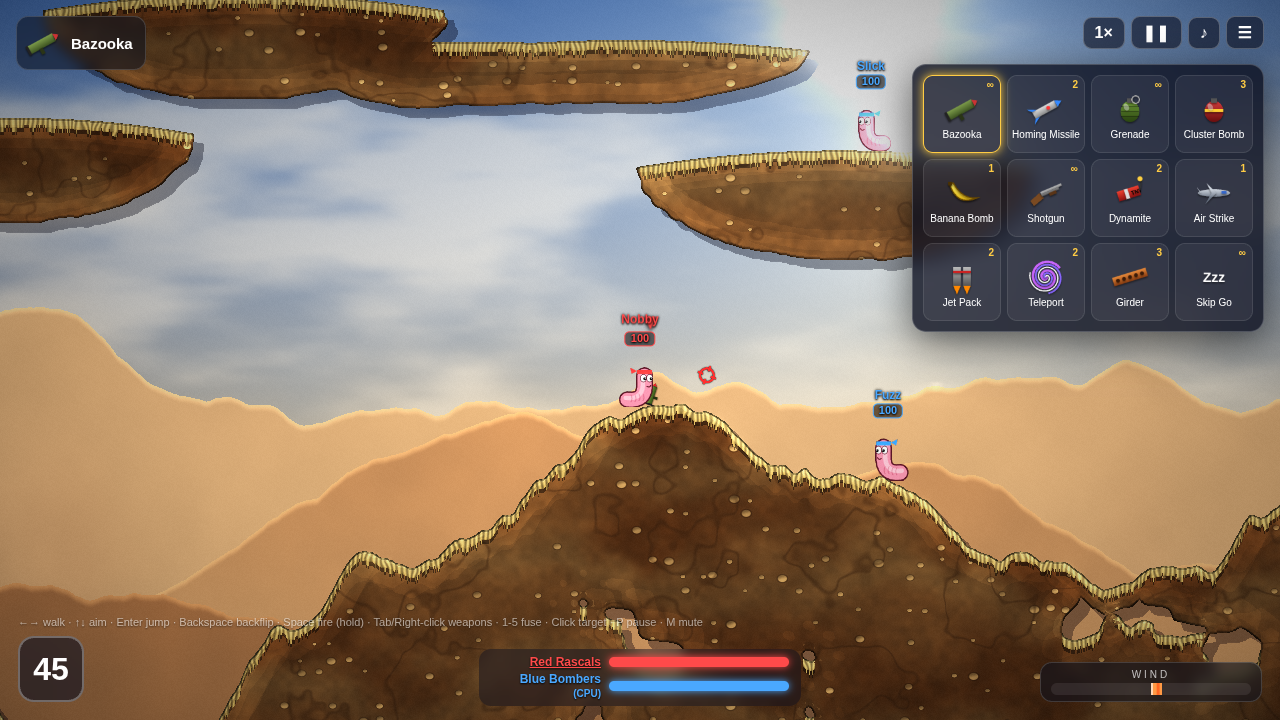
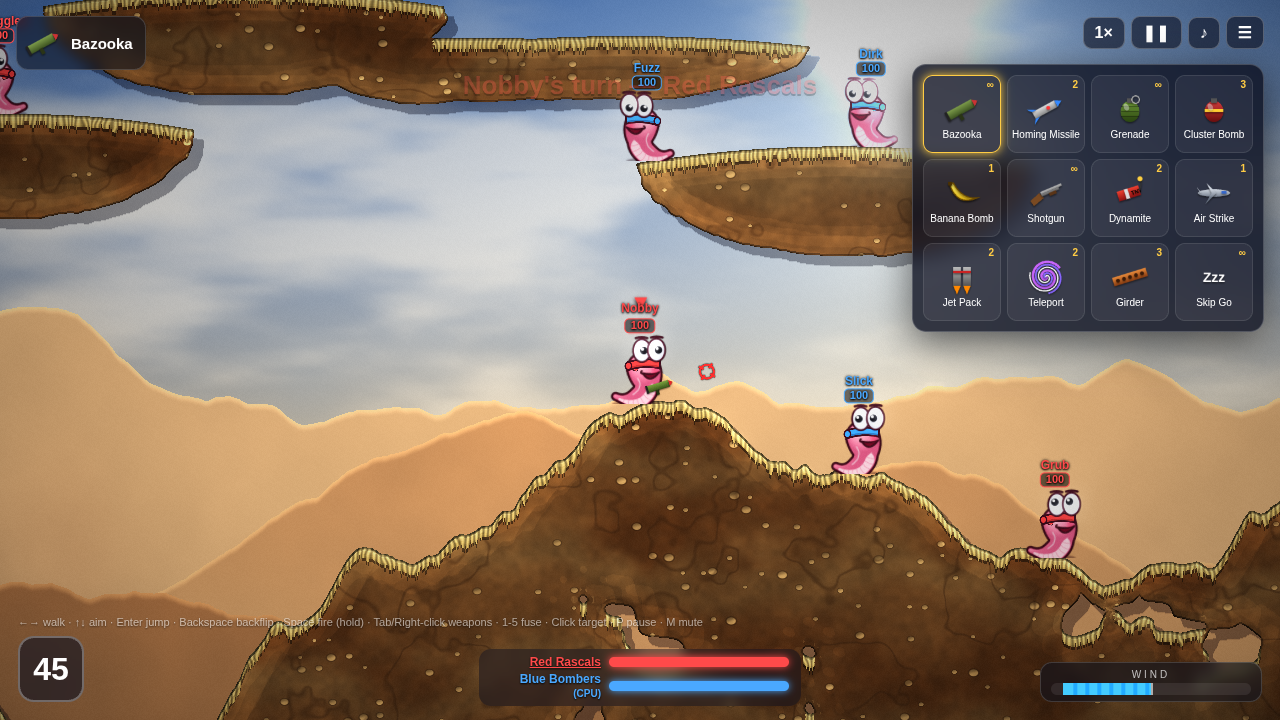
Worm art overhaul: smooth vector Worms 2-style worms (S-curve body, shading, belly, googly eyes, expressions, team bandana), fixed weapon hold angle

diff --git a/main.js b/main.js
@@ -315,97 +315,130 @@ try{const s=JSON.parse(localStorage.getItem('worms_cfg'));if(s&&s.teams)cfg={...
 
 const wormGeo=new THREE.PlaneGeometry(54,54),gunGeo=new THREE.PlaneGeometry(26,26);
 // ---------- cartoon worms (segmented body + dynamic face) ----------
-const SEGS=10;
-let _ballMat=null;
-function ballMat(head){const key=head?'h':'b';_ballMat=_ballMat||{};if(_ballMat[key])return _ballMat[key];const [c,x]=cv(64);
-  x.fillStyle=head?'#5a1730':'#9a3a58';x.beginPath();x.arc(32,32,31,0,7);x.fill();
-  const g=x.createRadialGradient(24,20,2,32,32,28);g.addColorStop(0,'#ffe0e7');g.addColorStop(.45,'#f79bb2');g.addColorStop(1,'#cf5a7c');
-  x.fillStyle=g;x.beginPath();x.arc(32,32,head?28:29.3,0,7);x.fill();
-  x.strokeStyle='rgba(150,40,75,.35)';x.lineWidth=2;x.beginPath();x.arc(32,32,21,Math.PI*.15,Math.PI*.85);x.stroke();
-  return _ballMat[key]=spriteMat(new THREE.CanvasTexture(c));}
+// ---------- cartoon worms: smooth vector body sprite + expressive face ----------
+const BS=4; // canvas px per world unit
+const INK='#3d0c1c';
+// body centreline (world units, feet origin, facing right). hx/hy: head offset, tq: tail sway
+function bodyCurve(hx,hy,tq){const P=[[-19+tq,6.5],[-2,-1.5],[11+hx*.4,9+hy*.3],[2+hx,29+hy]];
+  return u=>{const v=1-u;return [v*v*v*P[0][0]+3*v*v*u*P[1][0]+3*v*u*u*P[2][0]+u*u*u*P[3][0],v*v*v*P[0][1]+3*v*v*u*P[1][1]+3*v*u*u*P[2][1]+u*u*u*P[3][1]];};}
+const HEADR=12.5;
+const _sm=(a,b,u)=>{const t=clamp((u-a)/(b-a),0,1);return t*t*(3-2*t);};
+const bodyR=u=>1.9+6.4*_sm(0,.5,u)+.6*_sm(.5,.7,u)+3.6*_sm(.74,.97,u);
+const bodyCache={};
+function bodyTex(hx,hy,tq){const k=hx+'|'+hy+'|'+tq;if(bodyCache[k])return bodyCache[k];
+  const U=64,[c,x]=cv(U*BS);x.scale(BS,BS);x.translate(U/2,U);x.scale(1,-1); // world-ish coords, y up, feet at 0
+  const f=bodyCurve(hx,hy,tq),N=90,pts=[];
+  for(let i=0;i<=N;i++){const u=i/N,p=f(u),q=f(Math.min(1,u+.01)),o=f(Math.max(0,u-.01));let dx=q[0]-o[0],dy=q[1]-o[1];const l=Math.hypot(dx,dy)||1;pts.push({x:p[0],y:p[1],nx:dy/l,ny:-dx/l,r:bodyR(u),u});}
+  const shape=(grow,off=0,from=0,to=1)=>{x.beginPath();const S=pts.filter(p=>p.u>=from-1e-6&&p.u<=to+1e-6);
+    S.forEach((p,i)=>{const r=p.r+grow,cx=p.x+p.nx*off*p.r,cy=p.y+p.ny*off*p.r;i?x.lineTo(cx+p.nx*r,cy+p.ny*r):x.moveTo(cx+p.nx*r,cy+p.ny*r);});
+    for(let i=S.length-1;i>=0;i--){const p=S[i],r=p.r+grow,cx=p.x+p.nx*off*p.r,cy=p.y+p.ny*off*p.r;x.lineTo(cx-p.nx*r,cy-p.ny*r);}
+    x.closePath();for(const p of [S[S.length-1],S[0]]){const cx=p.x+p.nx*off*p.r,cy=p.y+p.ny*off*p.r,r=Math.max(.01,p.r+grow);x.moveTo(cx+r,cy);x.arc(cx,cy,r,0,7);}};
+  const H=pts[N];
+  // soft ground shadow
+  x.save();x.filter='blur(2px)';x.fillStyle='rgba(20,0,10,.35)';x.beginPath();x.ellipse(-3,.5,20,2.6,0,0,7);x.fill();x.restore();
+  // tube = union of overlapping discs (no self-intersection, no rings)
+  const disc=(p,r,ox,oy)=>{x.beginPath();x.arc(p.x+ox,p.y+oy,Math.max(.05,r),0,7);x.fill();};
+  x.fillStyle=INK;for(const p of pts)disc(p,p.r+1.8,0,0);
+  for(const p of pts){const g=x.createRadialGradient(p.x-p.r*.35,p.y+p.r*.4,p.r*.1,p.x,p.y,p.r*1.05);g.addColorStop(0,'#ffc6d5');g.addColorStop(.6,'#f48aa8');g.addColorStop(1,'#cf5c80');x.fillStyle=g;disc(p,p.r,0,0);}
+  // lighter belly band on the front/underside
+  for(const p of pts)if(p.u>.06&&p.u<.8){x.fillStyle='#ffd5df';disc(p,p.r*.42*(1-_sm(.65,.8,p.u)),p.nx*p.r*.5,p.ny*p.r*.5);}
+  // subtle belly creases
+  x.strokeStyle='rgba(205,95,128,.55)';x.lineWidth=.5;x.lineCap='round';
+  for(let u=.14;u<.86;u+=.08){const p=pts[Math.round(u*N)],r=p.r,bx=p.x+p.nx*r*.5,by=p.y+p.ny*r*.5,tx=-p.ny,ty=p.nx;
+    x.beginPath();x.moveTo(bx+p.nx*r*.38,by+p.ny*r*.38);x.quadraticCurveTo(bx-tx*1.1,by-ty*1.1,bx-p.nx*r*.38,by-p.ny*r*.38);x.stroke();}
+  // rim highlight along the back + head shine
+  x.strokeStyle='rgba(255,255,255,.5)';x.lineWidth=1.1;x.beginPath();pts.filter(p=>p.u>.3&&p.u<.9).forEach((p,i)=>{const px=p.x-p.nx*p.r*.62,py=p.y-p.ny*p.r*.62;i?x.lineTo(px,py):x.moveTo(px,py);});x.stroke();
+  const hg=x.createRadialGradient(H.x-4.5,H.y+5,0,H.x-4.5,H.y+5,6);hg.addColorStop(0,'rgba(255,255,255,.8)');hg.addColorStop(1,'rgba(255,255,255,0)');x.fillStyle=hg;x.beginPath();x.arc(H.x-4.5,H.y+5,6,0,7);x.fill();
+  const t=new THREE.CanvasTexture(c);t.minFilter=THREE.LinearMipmapLinearFilter;t.anisotropy=4;return bodyCache[k]=t;}
+// face: eyes on top of head, mouth on the front. 48x48 units, centre = head centre + (3,6)
+const FS=4,FU=56,FOX=3,FOY=9;
 const faceCache={};
 function faceTex(expr,blink,px,py){const k=expr+'|'+blink+'|'+px+'|'+py;if(faceCache[k])return faceCache[k];
-  const [c,x]=cv(96);x.lineCap='round';x.lineJoin='round';const ink='#4a1224';
-  const eyes=[[33,37],[63,37]],rx=13,ry=17;
+  const [c,x]=cv(FU*FS);x.scale(FS,FS);x.lineCap='round';x.lineJoin='round';
+  const hcx=FU/2-FOX,hcy=FU/2+FOY; // head centre in canvas units (y down)
+  const eyes=[[hcx-1.5,hcy-15],[hcx+10.5,hcy-15.5]],rx=6.4,ry=8.6;
   for(const [ex,ey] of eyes){
-    x.fillStyle='#fff';x.beginPath();x.ellipse(ex,ey,rx,ry,0,0,7);x.fill();
+    x.fillStyle=INK;x.beginPath();x.ellipse(ex,ey,rx+1.5,ry+1.5,0,0,7);x.fill();
+    const eg=x.createRadialGradient(ex-2,ey-3,1,ex,ey,ry);eg.addColorStop(0,'#fff');eg.addColorStop(1,'#dfe3ee');x.fillStyle=eg;x.beginPath();x.ellipse(ex,ey,rx,ry,0,0,7);x.fill();
     x.save();x.beginPath();x.ellipse(ex,ey,rx,ry,0,0,7);x.clip();
-    if(expr==='dead'){x.strokeStyle=ink;x.lineWidth=4;x.beginPath();x.moveTo(ex-6,ey-6);x.lineTo(ex+6,ey+6);x.moveTo(ex+6,ey-6);x.lineTo(ex-6,ey+6);x.stroke();}
-    else{const pr=expr==='shock'?4:6.5,ox=px*2.6,oy=py*2.6;x.fillStyle='#111';x.beginPath();x.arc(ex+ox,ey+oy,pr,0,7);x.fill();
-      x.fillStyle='#fff';x.beginPath();x.arc(ex+ox-2,ey+oy-2.5,pr*.35,0,7);x.fill();}
-    let lid=blink/3;if(expr==='worried')lid=Math.max(lid,.22);if(expr==='determined')lid=Math.max(lid,.3);if(expr==='grin')lid=Math.max(lid,.12);
-    if(lid>0){x.fillStyle='#f28aa6';x.fillRect(ex-rx-2,ey-ry-2,rx*2+4,(ry*2+4)*lid);x.strokeStyle=ink;x.lineWidth=2.2;x.beginPath();x.moveTo(ex-rx,ey-ry-2+(ry*2+4)*lid);x.lineTo(ex+rx,ey-ry-2+(ry*2+4)*lid);x.stroke();}
-    x.restore();
-    x.strokeStyle=ink;x.lineWidth=2.6;x.beginPath();x.ellipse(ex,ey,rx,ry,0,0,7);x.stroke();}
-  // eyebrows
-  x.strokeStyle=ink;x.lineWidth=4.5;
-  const brow=(ex,inner,outer,y0)=>{const s=ex<48?1:-1;x.beginPath();x.moveTo(ex-s*11,y0+outer);x.quadraticCurveTo(ex,y0-3+(inner+outer)/2,ex+s*9,y0+inner);x.stroke();};
-  const B={happy:[0,0,-2],grin:[-1,1,-3],worried:[-7,4,-1],shock:[-2,-2,-8],determined:[6,-3,0],dead:[0,0,0]}[expr]||[0,0,0];
-  brow(34,B[0],B[1],18+B[2]);brow(62,B[0],B[1],18+B[2]);
-  // mouth
-  const mx=50,my=72;x.lineWidth=3.2;x.strokeStyle=ink;
-  if(expr==='grin'){x.fillStyle='#7a1530';x.beginPath();x.moveTo(mx-15,my-5);x.quadraticCurveTo(mx,my+18,mx+15,my-5);x.closePath();x.fill();x.stroke();
-    x.fillStyle='#fff';x.beginPath();x.moveTo(mx-13,my-4);x.lineTo(mx+13,my-4);x.lineTo(mx+11,my);x.lineTo(mx-11,my);x.fill();
-    x.fillStyle='#ff6b8a';x.beginPath();x.ellipse(mx,my+6,6,3,0,0,7);x.fill();}
-  else if(expr==='happy'){x.beginPath();x.moveTo(mx-11,my-3);x.quadraticCurveTo(mx,my+9,mx+11,my-3);x.stroke();}
-  else if(expr==='worried'){x.beginPath();x.moveTo(mx-12,my+2);for(let i=1;i<=6;i++)x.lineTo(mx-12+i*4,my+2+(i%2?-3:3));x.stroke();}
-  else if(expr==='shock'){x.fillStyle='#7a1530';x.beginPath();x.ellipse(mx,my+2,7,10,0,0,7);x.fill();x.stroke();x.fillStyle='#ff6b8a';x.beginPath();x.ellipse(mx,my+8,4,3,0,0,7);x.fill();}
-  else if(expr==='determined'){x.beginPath();x.moveTo(mx-10,my+1);x.lineTo(mx+10,my-2);x.stroke();}
-  else {x.beginPath();x.moveTo(mx-8,my+4);x.quadraticCurveTo(mx,my-2,mx+8,my+4);x.stroke();}
-  // cheeks
-  if(expr==='grin'||expr==='happy'){x.fillStyle='rgba(255,90,120,.35)';x.beginPath();x.ellipse(22,66,7,4,0,0,7);x.ellipse(78,66,7,4,0,0,7);x.fill();}
-  const t=new THREE.CanvasTexture(c);t.minFilter=THREE.LinearFilter;return faceCache[k]=t;}
-function bandTex(color){return tex((()=>{const [c,x]=cv(64,24);x.fillStyle='#2a0a10';x.beginPath();x.roundRect(1,3,62,18,8);x.fill();
-  const g=x.createLinearGradient(0,4,0,20);g.addColorStop(0,'#fff');g.addColorStop(.25,color);g.addColorStop(1,'#000');x.fillStyle=color;x.beginPath();x.roundRect(3,5,58,14,6);x.fill();
-  x.globalAlpha=.35;x.fillStyle=g;x.fill();x.globalAlpha=1;x.fillStyle='rgba(255,255,255,.6)';x.fillRect(8,7,40,2);return c;})(),'band'+color);}
-const segGeo=new THREE.PlaneGeometry(1,1);
+    if(expr==='dead'){x.strokeStyle=INK;x.lineWidth=1.8;x.beginPath();x.moveTo(ex-3,ey-3);x.lineTo(ex+3,ey+3);x.moveTo(ex+3,ey-3);x.lineTo(ex-3,ey+3);x.stroke();}
+    else{const pr=expr==='shock'?2:3.1,ox=px*1.6,oy=py*2;x.fillStyle='#0d0d14';x.beginPath();x.arc(ex+ox,ey+oy,pr,0,7);x.fill();x.fillStyle='#fff';x.beginPath();x.arc(ex+ox-1,ey+oy-1.2,pr*.38,0,7);x.fill();}
+    let lid=blink/3;if(expr==='worried')lid=Math.max(lid,.3);if(expr==='determined')lid=Math.max(lid,.38);if(expr==='grin')lid=Math.max(lid,.15);
+    if(lid>0){const ly=ey-ry+ry*2*lid;const lg=x.createLinearGradient(0,ey-ry,0,ly);lg.addColorStop(0,'#f9a7bd');lg.addColorStop(1,'#e07795');x.fillStyle=lg;x.fillRect(ex-rx-1,ey-ry-1,rx*2+2,ly-ey+ry+1);
+      x.strokeStyle=INK;x.lineWidth=1.3;x.beginPath();x.moveTo(ex-rx,ly);x.lineTo(ex+rx,ly);x.stroke();}
+    x.restore();}
+  // brows [inner dy, outer dy, raise]
+  const B={happy:[0,0,0],grin:[0,1,-1],worried:[-3.5,2,0],shock:[-1,-1,-3.5],determined:[3,-1.5,1],dead:[0,0,0]}[expr]||[0,0,0];
+  x.strokeStyle=INK;x.lineWidth=1.9;
+  eyes.forEach(([ex,ey],i)=>{const s=i?-1:1,y0=ey-ry-1.6+B[2];x.beginPath();x.moveTo(ex-s*5,y0+B[1]);x.quadraticCurveTo(ex,y0-1.6+(B[0]+B[1])/2,ex+s*4.5,y0+B[0]);x.stroke();});
+  // mouth (on the front of the head)
+  const mx=hcx+6,my=hcy+5;x.lineWidth=1.5;x.strokeStyle=INK;
+  if(expr==='grin'||expr==='happy'){const wd=expr==='grin'?8:6.8,dp=expr==='grin'?7:5;
+    x.fillStyle='#6e1029';x.beginPath();x.moveTo(mx-wd,my-1.5);x.quadraticCurveTo(mx-1,my+dp*1.6,mx+wd,my-2.5);x.quadraticCurveTo(mx,my+.3,mx-wd,my-1.5);x.fill();
+    x.save();x.clip();x.fillStyle='#ff6f90';x.beginPath();x.ellipse(mx,my+dp*.9,wd*.55,2.4,0,0,7);x.fill();if(expr==='grin'){x.fillStyle='#fff';x.fillRect(mx-wd,my-3,wd*2,2.3);}x.restore();
+    x.beginPath();x.moveTo(mx-wd,my-1.5);x.quadraticCurveTo(mx-1,my+dp*1.6,mx+wd,my-2.5);x.quadraticCurveTo(mx,my+.3,mx-wd,my-1.5);x.stroke();
+    x.beginPath();x.arc(mx-wd-.3,my-2.2,1.1,Math.PI*.6,Math.PI*1.4);x.stroke();}
+  else if(expr==='worried'){x.fillStyle='#6e1029';x.beginPath();x.moveTo(mx-5,my+2.5);x.quadraticCurveTo(mx,my-2.5,mx+5,my+2.5);x.quadraticCurveTo(mx,my+1,mx-5,my+2.5);x.fill();x.stroke();x.fillStyle='#fff';x.fillRect(mx-2.5,my-.8,5,1.2);
+    x.lineWidth=1.1;x.strokeStyle='rgba(100,180,255,.9)';x.fillStyle='rgba(160,215,255,.95)';x.beginPath();x.moveTo(hcx+14,hcy-3);x.quadraticCurveTo(hcx+12,hcy+1.5,hcx+14,hcy+2);x.quadraticCurveTo(hcx+16,hcy+1.5,hcx+14,hcy-3);x.fill();x.stroke();}
+  else if(expr==='shock'){x.fillStyle='#6e1029';x.beginPath();x.ellipse(mx,my+1.5,3.6,5,0,0,7);x.fill();x.stroke();x.fillStyle='#ff6f90';x.beginPath();x.ellipse(mx,my+4.2,2.2,1.4,0,0,7);x.fill();}
+  else if(expr==='determined'){x.lineWidth=1.7;x.beginPath();x.moveTo(mx-5,my+.5);x.quadraticCurveTo(mx,my-.6,mx+5,my-1.5);x.stroke();}
+  else{x.beginPath();x.moveTo(mx-4,my+2);x.quadraticCurveTo(mx,my-1,mx+4,my+2);x.stroke();}
+  if(expr==='grin'||expr==='happy'){const cg=x.createRadialGradient(mx+3,my-4,0,mx+3,my-4,3.5);cg.addColorStop(0,'rgba(255,70,110,.55)');cg.addColorStop(1,'rgba(255,70,110,0)');x.fillStyle=cg;x.fillRect(mx-1,my-8,8,8);}
+  const t=new THREE.CanvasTexture(c);t.minFilter=THREE.LinearMipmapLinearFilter;return faceCache[k]=t;}
+// team bandana: strip that wraps the forehead, under the eyes, with a knot at the back
+function bandTex(color){return tex((()=>{const [c,x]=cv(FU*FS);x.scale(FS,FS);const hcx=FU/2-FOX,hcy=FU/2+FOY,y=hcy-6.5;
+  const path=()=>{x.beginPath();x.moveTo(hcx-12.3,y+1.5);x.quadraticCurveTo(hcx,y-2.2,hcx+12.6,y+.6);x.lineTo(hcx+12.2,y+5.2);x.quadraticCurveTo(hcx,y+2.6,hcx-12.6,y+6.6);x.closePath();};
+  x.fillStyle=INK;x.save();x.lineWidth=3;x.strokeStyle=INK;path();x.stroke();x.restore();
+  const g=x.createLinearGradient(0,y-2,0,y+6);g.addColorStop(0,'#ffffff');g.addColorStop(.2,color);g.addColorStop(1,color);x.fillStyle=g;path();x.fill();
+  x.fillStyle='rgba(0,0,0,.25)';x.beginPath();x.moveTo(hcx-12.6,y+6.6);x.quadraticCurveTo(hcx,y+2.6,hcx+12.2,y+5.2);x.lineTo(hcx+12.3,y+3.8);x.quadraticCurveTo(hcx,y+1.4,hcx-12.5,y+5);x.fill();
+  x.fillStyle=color;x.strokeStyle=INK;x.lineWidth=1.2;x.beginPath();x.ellipse(hcx-12.5,y+4,2.6,3,0,0,7);x.fill();x.stroke();return c;})(),'band2'+color);}
+function tailTex(color){return tex((()=>{const [c,x]=cv(64,24);x.fillStyle=INK;x.beginPath();x.moveTo(2,6);x.quadraticCurveTo(30,2,62,4);x.lineTo(56,13);x.lineTo(62,22);x.quadraticCurveTo(30,20,2,18);x.fill();
+  x.fillStyle=color;x.beginPath();x.moveTo(4,8);x.quadraticCurveTo(30,5,57,7);x.lineTo(52,13);x.lineTo(57,19);x.quadraticCurveTo(30,17,4,16);x.fill();x.fillStyle='rgba(255,255,255,.35)';x.fillRect(6,8,40,2);return c;})(),'tail'+color);}
 function makeWorm(team,name,x,y){
-  const g=new THREE.Group(),bm=ballMat(),segs=[];
-  for(let i=0;i<SEGS;i++){const m=new THREE.Mesh(segGeo,i===SEGS-1?ballMat(true):bm);m.renderOrder=2+i*.001;g.add(m);segs.push(m);}
-  const face=new THREE.Mesh(new THREE.PlaneGeometry(36,36),spriteMat(faceTex('happy',0,0,0)));face.renderOrder=2.07;g.add(face);
-  const bmat=spriteMat(bandTex(team.color));
-  const band=new THREE.Mesh(new THREE.PlaneGeometry(27,8),bmat);band.renderOrder=2.06;g.add(band);
-  const tails=[0,1].map(i=>{const m=new THREE.Mesh(new THREE.PlaneGeometry(13,5),bmat);m.geometry.translate(-6,0,0);m.renderOrder=2.055;g.add(m);return m;});
+  const g=new THREE.Group();
+  const body=new THREE.Mesh(new THREE.PlaneGeometry(64,64),spriteMat(bodyTex(0,0,0)));body.position.y=32;body.renderOrder=2;g.add(body);
+  const tmat=spriteMat(tailTex(team.color));
+  const tails=[0,1].map(i=>{const m=new THREE.Mesh(new THREE.PlaneGeometry(9.5,5.5),tmat);m.geometry.translate(-4,0,0);m.renderOrder=2.005;g.add(m);return m;});
+  const band=new THREE.Mesh(new THREE.PlaneGeometry(FU,FU),spriteMat(bandTex(team.color)));band.renderOrder=2.01;g.add(band);
+  const face=new THREE.Mesh(new THREE.PlaneGeometry(FU,FU),spriteMat(faceTex('happy',0,0,0)));face.renderOrder=2.02;g.add(face);
   const grave=new THREE.Mesh(new THREE.PlaneGeometry(34,34),spriteMat(tex(wormCanvas(team.color,true),'g'+team.color)));grave.visible=false;grave.renderOrder=2;g.add(grave);
-  const gun=new THREE.Group();gun.position.set(6,12,0);const gm=new THREE.Mesh(gunGeo,spriteMat(null));gm.position.x=10;gm.renderOrder=2.07;gun.add(gm);g.add(gun);gm.visible=false;
+  const gun=new THREE.Group();const gm=new THREE.Mesh(gunGeo,spriteMat(null));gm.position.x=10;gm.renderOrder=2.03;gun.add(gm);g.add(gun);gm.visible=false;
   scene.add(g);
   const lab=document.createElement('div');lab.className='lab';lab.style.color=team.color;lab.innerHTML=`<div class="nm">${name}</div><span class="hp">100</span>`;document.getElementById('labels').appendChild(lab);
-  return {team,name,x,y,vx:0,vy:0,hp:100,shownHp:100,air:true,facing:R()<.5?1:-1,aim:.3,dead:false,drowned:false,g,segs,face,band,tails,grave,gun,gm,lab,hpEl:lab.querySelector('.hp'),
+  return {team,name,x,y,vx:0,vy:0,hp:100,shownHp:100,air:true,facing:R()<.5?1:-1,aim:.3,dead:false,drowned:false,g,body,face,band,tails,grave,gun,gm,lab,hpEl:lab.querySelector('.hp'),
     walkAcc:0,squash:0,jet:0,phase:R()*10,blinkT:rnd(1,4),hurtT:0,look:[1,0]};
 }
-function disposeWorm(w){scene.remove(w.g);w.face.geometry.dispose();w.band.geometry.dispose();w.tails.forEach(t=>t.geometry.dispose());w.grave.geometry.dispose();
-  for(const m of [w.face.material,w.band.material,w.grave.material,w.gm.material])m.dispose();w.lab.remove();}
-const _bz=(a,b,c,u)=>(1-u)*(1-u)*a+2*(1-u)*u*b+u*u*c;
+function disposeWorm(w){scene.remove(w.g);for(const m of [w.body,w.face,w.band,w.grave,...w.tails])m.geometry.dispose();
+  for(const m of [w.body.material,w.face.material,w.band.material,w.grave.material,w.gm.material,w.tails[0].material])m.dispose();w.lab.remove();}
+const WSCALE=1.22;
 function poseWorm(w,dt){
   const t=simT+w.phase,cur=w===G_.cur,over=G_.state==='over',winner=over&&!w.dead&&aliveTeams().length===1;
   if(w.dead){w.g.position.set(w.x,w.y,0);
     if(w.drowned){w.sink+=dt;w.g.position.y=w.y-w.sink*28;w.g.rotation.z=Math.sin(w.sink*3)*.3;if(w.sink>4)w.g.visible=false;}
-    else{w.graveT=(w.graveT||0)+dt;const k=Math.min(1,w.graveT*2.5);w.grave.position.y=17+70*(1-k)*(1-k)+(k>=1?Math.abs(Math.sin(w.graveT*9))*5*Math.exp(-(w.graveT-.4)*5):0);w.g.scale.x=1;w.g.rotation.z=0;}
+    else{w.graveT=(w.graveT||0)+dt;const k=Math.min(1,w.graveT*2.5);w.grave.position.y=17+70*(1-k)*(1-k)+(k>=1?Math.abs(Math.sin(w.graveT*9))*5*Math.exp(-(w.graveT-.4)*5):0);w.g.scale.set(1,1,1);w.g.rotation.z=0;}
     return;}
   w.squash=Math.max(0,w.squash-dt*2.5);w.hurtT=Math.max(0,w.hurtT-dt);
   let hop=0,face=w.facing,tilt=0;
-  if(winner){hop=Math.abs(Math.sin(t*6))*16;face=Math.sin(t*1.6)>0?1:-1;tilt=Math.sin(t*6)*.18;}
-  if(w.dyingT!=null){tilt=Math.sin(t*40)*.12;}
-  const breathe=Math.sin(t*3)*.5+.5,walk=w.walking,wig=walk?Math.sin(t*16)*3:Math.sin(t*2.1)*1.6;
-  let st=w.air&&!w.jet?clamp(w.vy*.012,-5,7):0;if(winner)st=Math.sin(t*12)*3;
+  if(winner){hop=Math.abs(Math.sin(t*6))*16;face=Math.sin(t*1.6)>0?1:-1;tilt=Math.sin(t*6)*.15;}
+  if(w.dyingT!=null)tilt=Math.sin(t*40)*.12;
+  const walk=w.walking,breathe=Math.sin(t*2.6)*.5+.5;
+  let st=w.air&&!w.jet?clamp(w.vy*.012,-5,6):0;if(winner)st=Math.sin(t*12)*3;
   const sq=w.squash;
-  const P0=[-17-sq*5+(walk?Math.sin(t*16+1)*2.5:Math.sin(t*1.3)*1.5),4.5],P1=[9+wig*.4,1+sq*2],P2=[1+wig,29+breathe*1.6+st-sq*12];
-  for(let i=0;i<SEGS;i++){const u=i/(SEGS-1),m=w.segs[i],r=(i===SEGS-1?11.5:3+7.6*Math.pow(u,.6))*(1+sq*.25);
-    const lift=walk?Math.max(0,Math.sin(t*16-u*6))*3*(1-u):0;
-    m.position.set(_bz(P0[0],P1[0],P2[0],u),_bz(P0[1],P1[1],P2[1],u)+lift,0);m.scale.set(r*2.2,r*2.2*(i===SEGS-1?1.08:1),1);}
-  const hx=P2[0],hy=P2[1];
-  w.face.position.set(hx+5,hy+1,0);
-  w.band.position.set(hx-2,hy+10,0);w.band.rotation.z=-.08;
-  const fl=(winner||w.air)?14:5;w.tails.forEach((tm,i)=>{tm.position.set(hx-9,hy+11,0);tm.rotation.z=.35+i*.45+Math.sin(t*fl+i*1.7)*.25+clamp(-w.vx*.002,-.4,.4);});
-  w.gun.position.set(hx+4,hy-15,0);
+  const hx=clamp(Math.round(walk?Math.sin(t*14)*2.5:Math.sin(t*1.9)*1.6),-3,3);
+  const hy=clamp(Math.round((breathe*1.6+st-sq*12+(walk?Math.abs(Math.sin(t*14))*1.5:0))/1.5)*1.5,-12,7.5);
+  const tq=clamp(Math.round(walk?Math.sin(t*14+1.5)*2:Math.sin(t*1.2)*1),-2,2);
+  const bt=bodyTex(hx,hy,tq);if(w.body.material.map!==bt){w.body.material.map=bt;w.body.material.needsUpdate=true;}
+  const H=bodyCurve(hx,hy,tq)(1),HX=H[0],HY=H[1];
+  w.face.position.set(HX+FOX,HY+FOY,0);w.band.position.set(HX+FOX,HY+FOY,0);
+  const fl=(winner||w.air)?16:5;w.tails.forEach((tm,i)=>{tm.position.set(HX-12.5,HY+2.5,0);tm.rotation.z=Math.PI+.25-i*.5+Math.sin(t*fl+i*1.7)*.22+clamp(w.vx*.002*face,-.4,.4);});
+  w.gun.position.set(HX+3,HY-14,0);
   // look direction (local space)
   let lx=1,ly=0;
   if(cur&&(G_.state==='turn'||G_.state==='retreat')){lx=Math.cos(w.aim);ly=Math.sin(w.aim);}
   else{const p=G_.projs[0];const tg=p?{x:p.x,y:p.y}:(G_.cur&&G_.cur!==w&&!G_.cur.dead?{x:G_.cur.x,y:G_.cur.y+24}:null);
-    if(tg){const dx=(tg.x-w.x)*face,dy=tg.y-(w.y+hy),d=Math.hypot(dx,dy)||1;lx=dx/d;ly=dy/d;}}
+    if(tg){const dx=(tg.x-w.x)*face,dy=tg.y-(w.y+HY),d=Math.hypot(dx,dy)||1;lx=dx/d;ly=dy/d;}}
   w.look[0]=lerp(w.look[0],lx,Math.min(1,dt*8));w.look[1]=lerp(w.look[1],ly,Math.min(1,dt*8));
-  const px=clamp(Math.round(w.look[0]*2),-2,2),py=clamp(Math.round(-w.look[1]*2),-2,2);
-  // expression
+  const px=clamp(Math.round(w.look[0]*1.5),-2,2),py=clamp(Math.round(-w.look[1]*1.5),-2,2);
   let ex='happy';
   const nearProj=G_.projs.some(p=>Math.hypot(p.x-w.x,p.y-w.y)<140&&p.owner!==w);
   if(w.hurtT>0||w.dyingT!=null||(w.air&&!w.jet&&Math.hypot(w.vx,w.vy)>320))ex='shock';
@@ -413,11 +446,10 @@ function poseWorm(w,dt){
   else if(nearProj||w.hp<35||w.y<waterLevel+45)ex='worried';
   else if(cur&&G_.charging)ex='determined';
   else if(cur&&G_.state==='retreat')ex='grin';
-  w.blinkT-=dt;let bl=0;if(w.blinkT<0){const k=-w.blinkT;bl=k<.05?2:k<.1?3:k<.15?1:0;if(k>.15)w.blinkT=rnd(1.5,5);}
+  w.blinkT-=dt;let bl=0;if(w.blinkT<0){const k=-w.blinkT;bl=k<.04?1:k<.08?3:k<.13?2:0;if(k>.13)w.blinkT=rnd(1.8,5);}
   const ft=faceTex(ex,bl,px,py);if(w.face.material.map!==ft){w.face.material.map=ft;w.face.material.needsUpdate=true;}
-  // whole-body transforms
-  const sx=1+sq*.35-(st>0?st*.02:0),sy=1-sq*.3+(st>0?st*.025:0);
-  w.g.scale.set(face*sx,sy,1);
+  const sx=1+sq*.3-(st>0?st*.015:0),sy=1-sq*.22+(st>0?st*.02:0);
+  w.g.scale.set(face*sx*WSCALE,sy*WSCALE,1);
   let rz=tilt;if(w.air&&!winner)rz+=clamp(-w.vx*.0018*face,-.45,.45);if(w.jumped&&w.air&&w.vy>0&&Math.abs(w.vx)<60)rz+=(w.vy-430)*-.012;
   if(w.jet>0)rz=-w.vx*.002*face;
   w.g.rotation.z=rz*face;
@@ -586,7 +618,7 @@ function banner(t,col='#fff'){const b=document.getElementById('banner');b.textCo
 function endTurnSoon(){if(G_.state==='turn'||G_.state==='retreat'){if(G_.cur){G_.cur.jet=0;}G_.state='settle';G_.settle=0;G_.charging=false;}}
 const aliveTeams=()=>G_.teams.filter(t=>t.worms.some(w=>!w.dead));
 function killWorm(w,drown){w.dead=true;w.hp=0;w.dyingT=null;w.lab.style.display='none';w.gm.visible=false;
-  if(drown){w.drowned=true;w.sink=0;}else{w.segs.forEach(m=>m.visible=false);w.face.visible=w.band.visible=false;w.tails.forEach(m=>m.visible=false);w.grave.visible=true;w.graveT=0;w.g.rotation.z=0;}}
+  if(drown){w.drowned=true;w.sink=0;}else{w.body.visible=false;w.face.visible=w.band.visible=false;w.tails.forEach(m=>m.visible=false);w.grave.visible=true;w.graveT=0;w.g.rotation.z=0;}}
 function startTurn(){
   const at=aliveTeams();if(at.length<=1)return gameOver(at[0]);
   if(G_.turnN>400){const hp=t=>t.worms.reduce((s,w)=>s+(w.dead?0:w.hp),0);const s=[...at].sort((a,b)=>hp(b)-hp(a));return gameOver(hp(s[0])>hp(s[1])?s[0]:null);}
@@ -823,9 +855,9 @@ function visuals(dt){
     if(!w.dead){
       const isCur=w===G_.cur&&G_.state==='turn'&&!w.air;
       w.gm.visible=!!isCur&&!['skip','jetpack','teleport','airstrike'].includes(G_.wid);
-      if(w.gm.visible){const k=G_.wid,tx=tex(icon(k),'i'+k);if(w.gm.material.map!==tx){w.gm.material.map=tx;w.gm.material.needsUpdate=true;}w.gm.rotation.z=w.aim+(['bazooka','homing','shotgun','girder','dynamite'].includes(k)?.45:0);w.gun.rotation.z=-w.g.rotation.z*w.facing;}
+      if(w.gm.visible){const k=G_.wid,tx=tex(icon(k),'i'+k);if(w.gm.material.map!==tx){w.gm.material.map=tx;w.gm.material.needsUpdate=true;}w.gm.rotation.z=w.aim+(['bazooka','homing','shotgun','girder','dynamite'].includes(k)?(k==='shotgun'?-.4:k==='dynamite'?-.3:-.5):0);w.gun.rotation.z=-w.g.rotation.z*w.facing;}
       if(w.shownHp!==w.hp){w.shownHp+=Math.sign(w.hp-w.shownHp)*Math.max(1,Math.abs(w.hp-w.shownHp)*dt*3|0);if(Math.abs(w.shownHp-w.hp)<1)w.shownHp=w.hp;w.hpEl.textContent=Math.round(w.shownHp);}
-      const [sx,sy]=w2s(w.x,w.y+62);w.lab.style.left=sx+'px';w.lab.style.top=sy+'px';w.lab.classList.toggle('cur',w===G_.cur);}
+      const [sx,sy]=w2s(w.x,w.y+70);w.lab.style.left=sx+'px';w.lab.style.top=sy+'px';w.lab.classList.toggle('cur',w===G_.cur);}
     w.walking=false;}
   const cw=G_.cur;
   const showAim=cw&&!cw.dead&&G_.state==='turn'&&!cw.air&&!['skip','jetpack','teleport','airstrike','dynamite'].includes(G_.wid)&&(!G_.ai||G_.ai.phase==='aim'||G_.ai.phase==='charge');
@@ -906,3 +938,4 @@ function watchdog(){
   if(G_.projs.length>150)issue('projectile explosion '+G_.projs.length);
   const key=G_.state+G_.turnN;if(key!==wdState){wdState=key;wdT=0;}else if(G_.state!=='over'&&G_.state!=='menu'){wdT+=DT;if(wdT>(cfg.turnTime+40)&&wdT<(cfg.turnTime+40)+DT*1.5)issue(`softlock: state ${G_.state} for ${wdT|0}s projs=${G_.projs.map(p=>p.kind+'@'+(p.x|0)+','+(p.y|0)+(p.rest?'R':'')).join(';')} air=${G_.worms.filter(w=>!w.dead&&w.air).map(w=>w.name+'@'+(w.x|0)+','+(w.y|0)).join(';')} jet=${G_.cur&&G_.cur.jet}`);}
 }
+window.__art={bodyTex,faceTex,bandTex};

diff --git a/README.md b/README.md
@@ -19,15 +19,19 @@ Worm Wars is a turn-based artillery game in the style of Worms 2. It runs in the
 - **Music and sound.** All audio is synthesized live with the Web Audio API, with no audio files. The music is original and procedurally composed: a menu theme, four battle tracks and a victory fanfare. Sound effects include explosions, shots, jumps, splashes and worm voice chirps. There's a mute toggle.
 
 ## The worms
-The worms are cartoon characters in the Worms 2 style:
-- **Body:** a segmented pink body that tapers to a curled tail.
-- **Eyes:** big googly eyes that blink and follow the aim direction or incoming projectiles.
-- **Face:** eyebrows and a mouth that change expression. They grin by default, look worried when health is low, water is near or a projectile is close, look shocked when hit, and look determined while charging a shot.
-- **Headband:** in the team colour, with fluttering tails.
-- **Animation:** an idle wiggle and breathing, a crawling walk, and squash and stretch on jumps and landings. The worm holds its current weapon.
-- **Death and victory:** a worm wobbles in shock before its death blast, then a gravestone drops in its place. The winning team does a hopping victory dance.
+The worms are drawn in the Worms 2 style as smooth vector art. Each body is drawn at 4× resolution with canvas curves, then used as a sprite.
+- **Body:** an upright S-curve, fat at the round head and tapering to a small tail curled on the ground. It has a thick dark outline, gradient shading, a rim highlight, a lighter belly with subtle creases and a soft ground shadow. There are no segment rings.
+- **Eyes:** big white oval eyes, close together on top of the head. They have black pupils that track the aim (or incoming shots) and eyelids that blink.
+- **Face:** eyebrows, a large mouth and cheeks. The expressions are happy, grin, worried (with a sweat drop), shocked and determined.
+- **Bandana:** in the team colour, wrapped across the forehead under the eyes, with a knot and fluttering tails.
+- **Animation:** idle wiggle and breathing, a crawl cycle when walking, and squash and stretch on jumps and landings. The worm holds its weapon at the aim angle.
+- **Death and victory:** a worm wobbles in shock before its death blast, then a gravestone drops in its place. The winners do a hopping victory dance.
+
+![Expression sheet](shots/wc_sheet.png)
 
 ![Worm close-up](shots/wc_idle.png)
+
+![In battle](shots/battle_winter.png)
 
 ## Running locally
 ES modules need an HTTP server, so double-clicking `index.html` won't work. From the repo folder, run:
